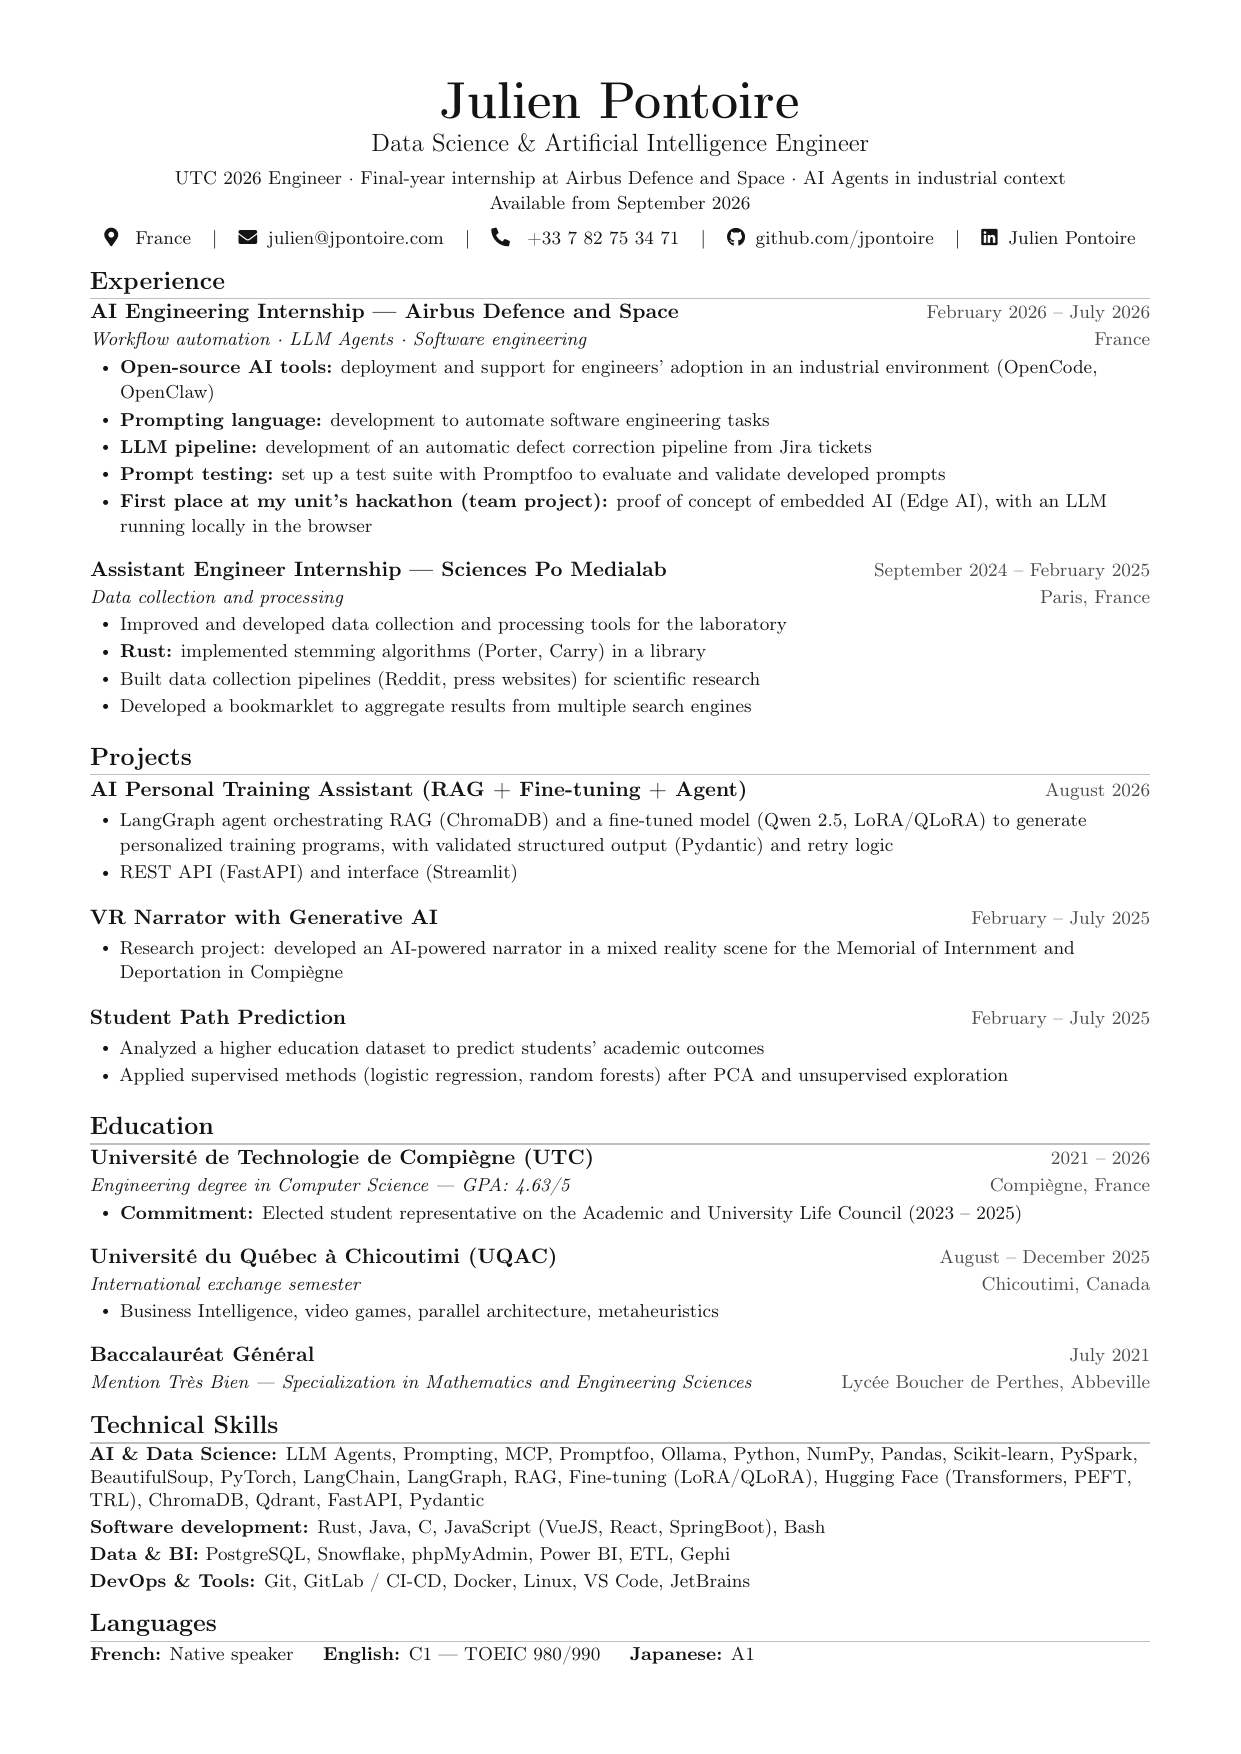
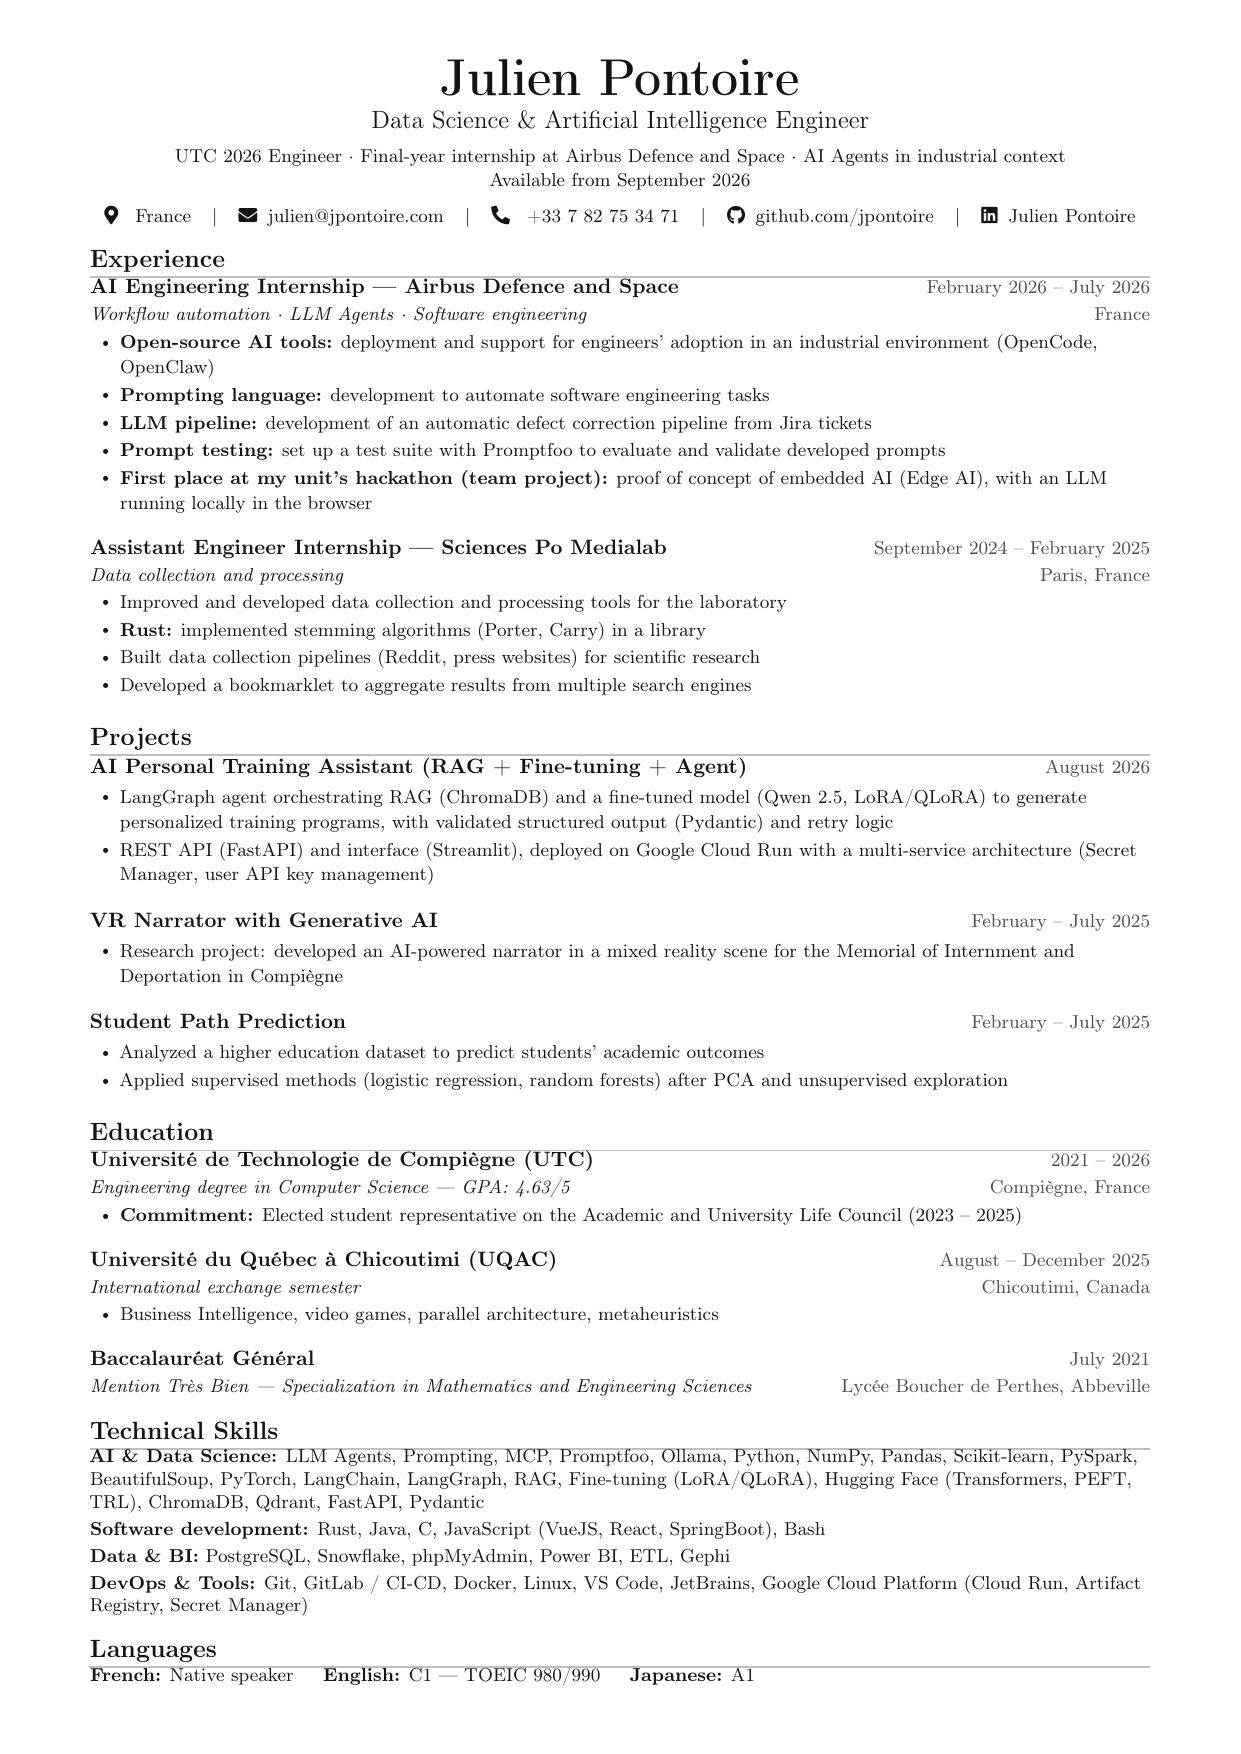
feat: add GCP work on the resume

diff --git a/CV.tex b/CV.tex
@@ -1,7 +1,7 @@
 \documentclass[a4paper,10pt]{article}
 
 \usepackage{geometry}
-\geometry{a4paper, top=0.55in, bottom=0.55in, left=0.6in, right=0.6in}
+\geometry{a4paper, top=0.4in, bottom=0.4in, left=0.6in, right=0.6in}
 \usepackage{titlesec}
 \usepackage[usenames,dvipsnames]{color}
 \usepackage{enumitem}
@@ -34,7 +34,7 @@
 \titleformat{\section}{
     \bfseries \vspace{2pt} \raggedright \large
 }{}{0em}{}[{\color{light-grey}\titlerule[0.8pt]} \vspace{-4pt}]
-\titlespacing{\section}{0pt}{10pt}{6pt}
+\titlespacing{\section}{0pt}{7pt}{4pt}
 
 % Commandes CV
 \newcommand{\cvItem}[1]{
@@ -123,7 +123,7 @@
 \cvProject{Assistant IA d'entraînement sportif (RAG + Fine-tuning + Agent)}{Août 2026}
 \cvItemListStart
 \cvItem{Agent LangGraph orchestrant RAG (ChromaDB) et un modèle fine-tuné (Qwen 2.5, LoRA/QLoRA) pour générer des programmes d'entraînement personnalisés, avec sortie structurée validée (Pydantic) et logique de retry}
-\cvItem{API REST (FastAPI) et interface (Streamlit)}
+\cvItem{API REST (FastAPI) et interface (Streamlit), déployées sur Google Cloud Run avec architecture multi-services (Secret Manager, gestion de clés API utilisateur)}
 \cvItemListEnd
 
 \cvProject{Narrateur en réalité virtuelle via IA générative}{Février -- Juillet 2025}
@@ -170,7 +170,7 @@
 		            \textbf{IA \& Data Science :} Agents LLM, Prompting, MCP, Promptfoo, Ollama, Python, NumPy, Pandas, Scikit-learn, PySpark, BeautifulSoup, PyTorch, LangChain, LangGraph, RAG, Fine-tuning (LoRA/QLoRA), Hugging Face (Transformers, PEFT, TRL), ChromaDB, Qdrant, FastAPI, Pydantic \vspace{2pt} \\
 		            \textbf{Développement logiciel :} Rust, Java, C, JavaScript (VueJS, React, SpringBoot), Bash \vspace{2pt} \\
 		            \textbf{Données \& BI :} PostgreSQL, Snowflake, phpMyAdmin, Power BI, ETL, Gephi \vspace{2pt} \\
-		            \textbf{DevOps \& Outils :} Git, GitLab / CI-CD, Docker, Linux, VS Code, JetBrains
+		            \textbf{DevOps \& Outils :} Git, GitLab / CI-CD, Docker, Linux, VS Code, JetBrains, Google Cloud Platform (Cloud Run, Artifact Registry, Secret Manager)
 		      }}
 \end{itemize}
 

diff --git a/resume.tex b/resume.tex
@@ -1,7 +1,7 @@
 \documentclass[a4paper,10pt]{article}
 
 \usepackage{geometry}
-\geometry{a4paper, top=0.55in, bottom=0.55in, left=0.6in, right=0.6in}
+\geometry{a4paper, top=0.4in, bottom=0.4in, left=0.6in, right=0.6in}
 \usepackage{titlesec}
 \usepackage[usenames,dvipsnames]{color}
 \usepackage{enumitem}
@@ -32,7 +32,7 @@
 \titleformat{\section}{
     \bfseries \vspace{2pt} \raggedright \large
 }{}{0em}{}[{\color{light-grey}\titlerule[0.8pt]} \vspace{-4pt}]
-\titlespacing{\section}{0pt}{10pt}{6pt}
+\titlespacing{\section}{0pt}{7pt}{4pt}
 
 \newcommand{\cvItem}[1]{
   \item\small{{#1 \vspace{-1pt}}}
@@ -120,7 +120,7 @@
 \cvProject{AI Personal Training Assistant (RAG + Fine-tuning + Agent)}{August 2026}
 \cvItemListStart
 \cvItem{LangGraph agent orchestrating RAG (ChromaDB) and a fine-tuned model (Qwen 2.5, LoRA/QLoRA) to generate personalized training programs, with validated structured output (Pydantic) and retry logic}
-\cvItem{REST API (FastAPI) and interface (Streamlit)}
+\cvItem{REST API (FastAPI) and interface (Streamlit), deployed on Google Cloud Run with a multi-service architecture (Secret Manager, user API key management)}
 \cvItemListEnd
 
 \cvProject{VR Narrator with Generative AI}{February -- July 2025}
@@ -167,7 +167,7 @@
         \textbf{AI \& Data Science:} LLM Agents, Prompting, MCP, Promptfoo, Ollama, Python, NumPy, Pandas, Scikit-learn, PySpark, BeautifulSoup, PyTorch, LangChain, LangGraph, RAG, Fine-tuning (LoRA/QLoRA), Hugging Face (Transformers, PEFT, TRL), ChromaDB, Qdrant, FastAPI, Pydantic \vspace{2pt} \\
         \textbf{Software development:} Rust, Java, C, JavaScript (VueJS, React, SpringBoot), Bash \vspace{2pt} \\
         \textbf{Data \& BI:} PostgreSQL, Snowflake, phpMyAdmin, Power BI, ETL, Gephi \vspace{2pt} \\
-        \textbf{DevOps \& Tools:} Git, GitLab / CI-CD, Docker, Linux, VS Code, JetBrains
+        \textbf{DevOps \& Tools:} Git, GitLab / CI-CD, Docker, Linux, VS Code, JetBrains, Google Cloud Platform (Cloud Run, Artifact Registry, Secret Manager)
     }}
 \end{itemize}
 
